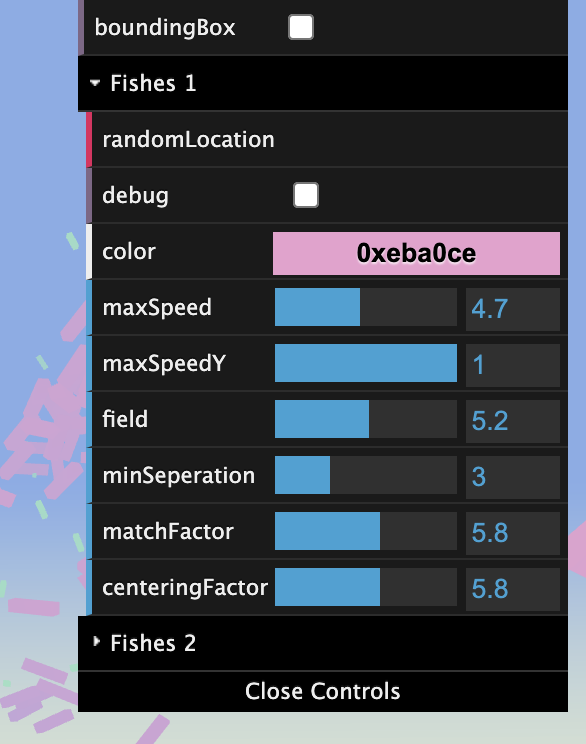
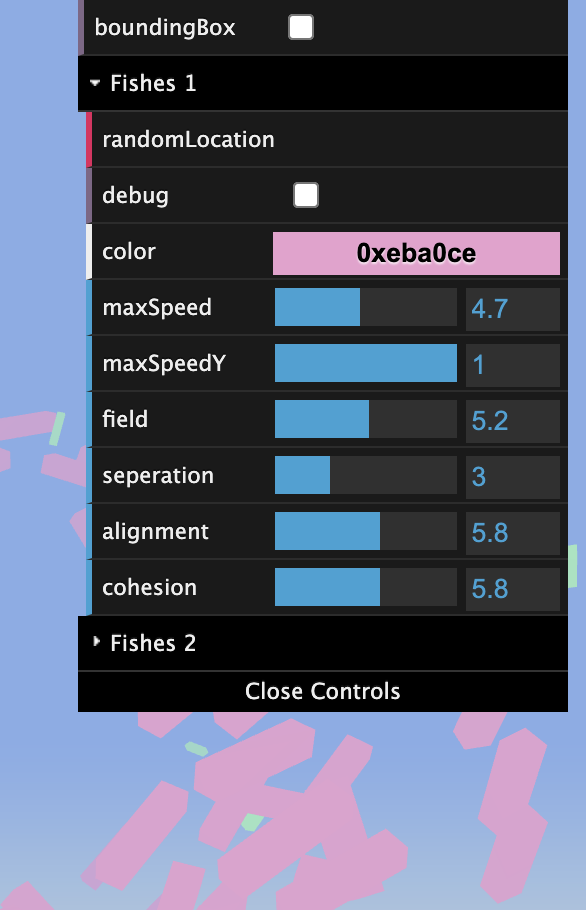
attribute name update

diff --git a/src/boid.ts b/src/boid.ts
@@ -25,8 +25,8 @@ export class Boid {
 
         // Boid Attribute Defaults
 		this.attributes = {
-			maxSpeed: 0, maxSpeedY: 0, field: 0, minSeperation: 0,
-			centeringFactor: 0, matchFactor: 0, margin: 0, turnFactor: 0,
+			maxSpeed: 0, maxSpeedY: 0, field: 0, seperation: 0,
+			cohesion: 0, alignment: 0, margin: 0, turnFactor: 0,
         }
     }
 
@@ -68,9 +68,9 @@ export class Boid {
             neighbors++;
 
             // Avoid Others (separation)
-            if (otherBoid !== this && this.distance(otherBoid) < this.attributes.minSeperation) {
+            if (otherBoid !== this && this.distance(otherBoid) < this.attributes.seperation) {
                 let avoid = this.vel.clone().sub(otherBoid.vel)
-                this.vel.addScaledVector(avoid, 2*this.attributes.maxSpeed/100*this.attributes.minSeperation); // apply avoid force
+                this.vel.addScaledVector(avoid, 2*this.attributes.maxSpeed/100*this.attributes.seperation); // apply avoid force
             }
 
             // Match (alignment)
@@ -83,12 +83,12 @@ export class Boid {
         // Apply Match Force
         match.add(this.vel);
         match.divideScalar(neighbors);
-        this.vel.addScaledVector(match, 0.1*this.attributes.matchFactor);
+        this.vel.addScaledVector(match, 0.1*this.attributes.alignment);
 
         // Apply Center Force
         center.divideScalar(neighbors);
         center.sub(this.mesh.position);
-        this.vel.addScaledVector(center, 0.1*this.attributes.centeringFactor/100);
+        this.vel.addScaledVector(center, 0.1*this.attributes.cohesion/100);
     }
 
     // Screen Border Rules ------------------------------

diff --git a/src/boidController.ts b/src/boidController.ts
@@ -51,9 +51,9 @@ export class BoidController {
 
             field: 5.2,
 
-            minSeperation: 3,
-            centeringFactor: 5.8,  // scalar of force to push to center
-            matchFactor: 5.8,      // scalar of force to match directions
+            seperation: 3,
+            cohesion: 5.8,  // scalar of force to push to center
+            alignment: 5.8,      // scalar of force to match directions
 
             margin: 9,             // distance from wall to start applying
             turnFactor: 0.1,       // scalar of force to turn away
@@ -161,9 +161,9 @@ export class BoidController {
         boidFolder.add(this.attributes, "maxSpeedY", 0, 1);
         boidFolder.add(this.attributes, "field", 0.0001, 10);
 
-        boidFolder.add(this.attributes, "minSeperation", 0, 10);
-        boidFolder.add(this.attributes, "matchFactor", 0, 10);
-        boidFolder.add(this.attributes, "centeringFactor", 0, 10);
+        boidFolder.add(this.attributes, "seperation", 0, 10);
+        boidFolder.add(this.attributes, "alignment", 0, 10);
+        boidFolder.add(this.attributes, "cohesion", 0, 10);
     }
 
     // 

diff --git a/src/attributes.d.ts b/src/attributes.d.ts
@@ -4,9 +4,9 @@ interface Attributes {
 
     field: number,
 
-    minSeperation: number,
-    centeringFactor: number,
-    matchFactor: number,
+    seperation: number,
+    cohesion: number,
+    alignment: number,
 
     margin: number,
     turnFactor: number

diff --git a/README.md b/README.md
@@ -216,7 +216,7 @@ For the test fish 3D Model I used blender to convert a STL file into a glTF. I u
 ![22-03-07 ThreeJS Boids 2 Flock UCSC Model](https://github.com/xxzbuckxx/Boid-Simulation/blob/main/log-assets/22-03-07%20ThreeJS%20Boids%202%20Flock%20UCSC%20Model.gif?raw=true)
 
 ---
-### 22-04-22 Code Refactor
+### 22-04-22 Code Refactor and GUI update
 
 [Here is the code at the end of this stage](https://github.com/xxzbuckxx/Boid-Simulation/tree/3b33bffc9d78d8fdae21051f4ae4319e519eff23)
 
